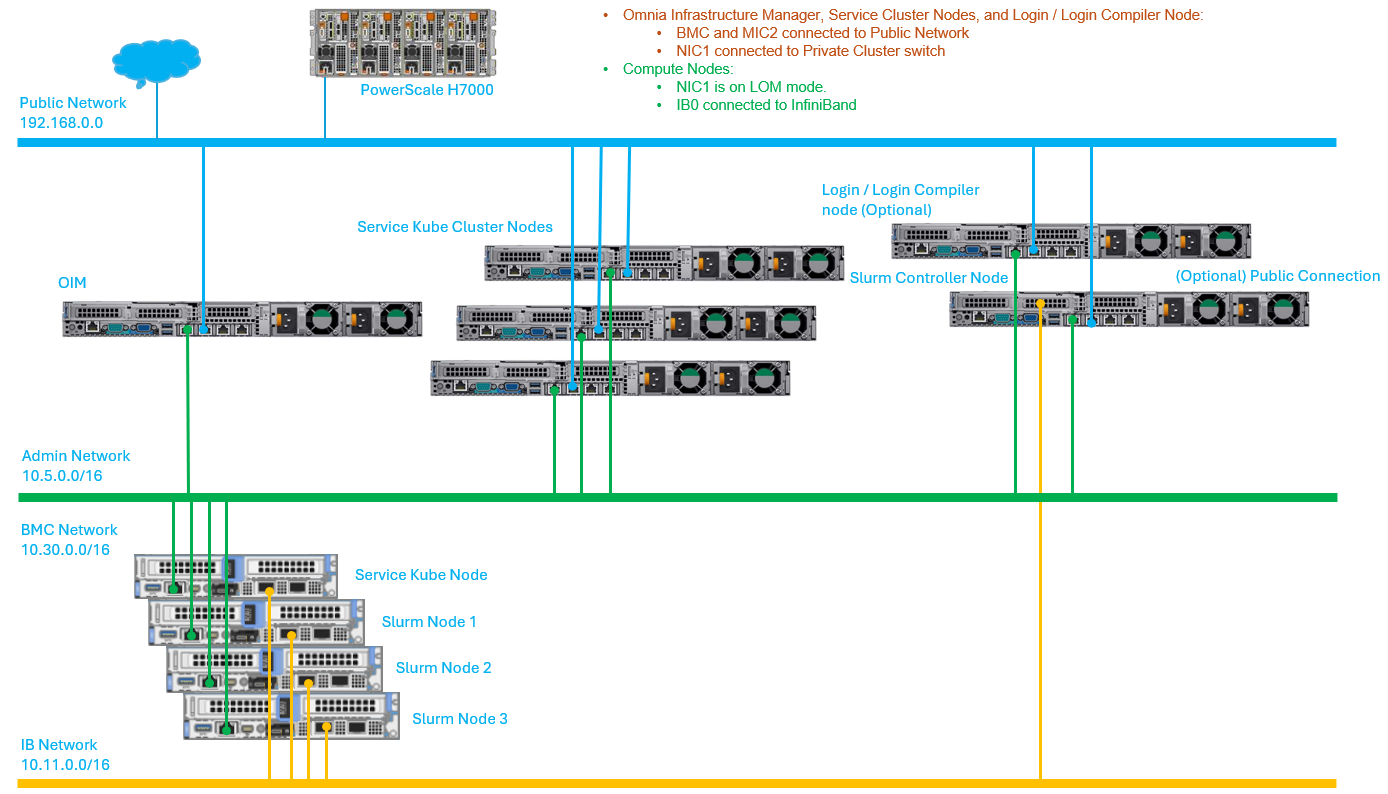
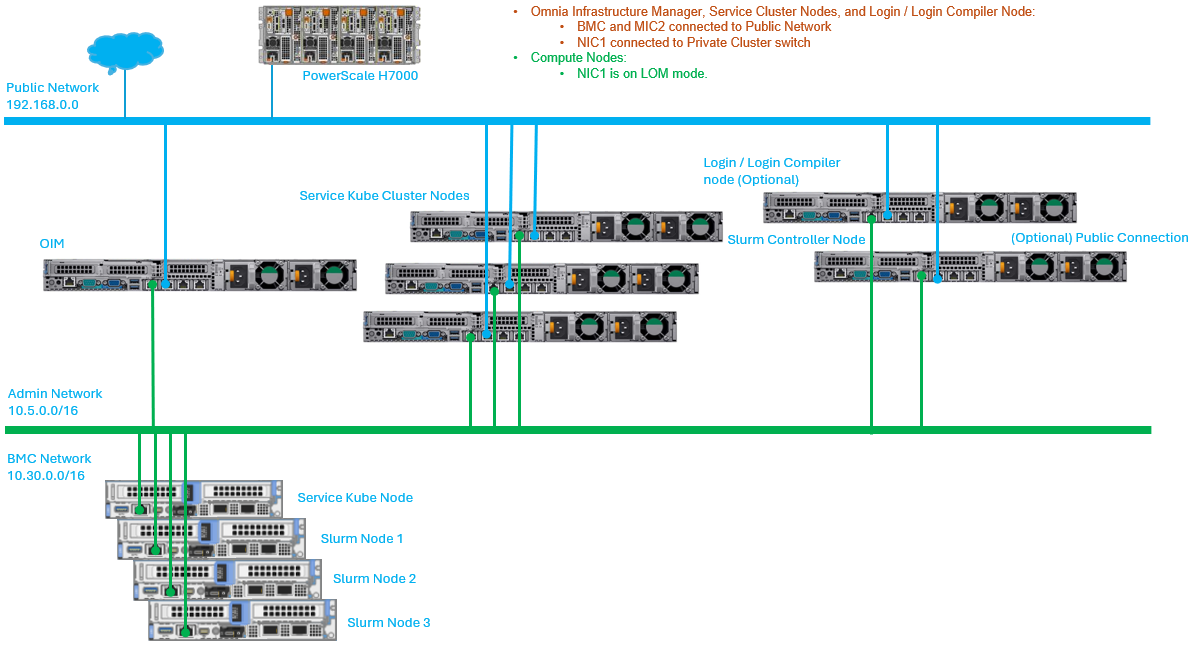
Addressed the doc comments.

Changed region(s): [[0.0, 0.0, 1.0, 0.997], [0.4335, 0.0, 0.8669, 0.1511], [0.0929, 0.0302, 0.1548, 0.0906]]

diff --git a/docs/source/Logging/OIM_logs.rst b/docs/source/Logging/OIM_logs.rst
@@ -56,13 +56,13 @@ Logs of individual Podman containers in OIM
 +--------------+-------------------------------------------+----------------------+-------------+-------------+---------------------------------------------------+-------------------+
 | CONTAINER ID | IMAGE                                     | COMMAND              | CREATED     | STATUS      | PORTS                                             | NAMES             |
 +==============+===========================================+======================+=============+=============+===================================================+===================+
-| 0e327d3addf0 | docker.io/minio/minio:latest              | server /data --co... | 6 days ago  | Up 6 days   | 0.0.0.0:9000-9001->9000-9001/tcp                  | minio-server      |
+| 0e327d3addf0 | docker.io/minio/minio:latest              | server /data --co... | 2 hours ago | Up 2 hours  | 0.0.0.0:9000-9001->9000-9001/tcp                  | minio-server      |
 +--------------+-------------------------------------------+----------------------+-------------+-------------+---------------------------------------------------+-------------------+
-| 1439b4ba453e | docker.io/library/registry:latest         | /etc/distribution... | 6 days ago  | Up 6 days   | 0.0.0.0:5000->5000/tcp                            | registry          |
+| 1439b4ba453e | docker.io/library/registry:latest         | /etc/distribution... | 2 hours ago | Up 2 hours  | 0.0.0.0:5000->5000/tcp                            | registry          |
 +--------------+-------------------------------------------+----------------------+-------------+-------------+---------------------------------------------------+-------------------+
-| 01c7a7eaeb7d | localhost/omnia_core:latest               |                      | 5 days ago  | Up 5 days   | 2222/tcp                                          | omnia_core        |
+| 01c7a7eaeb7d | localhost/omnia_core:1.0                  | /bin/sh -c   mkdi..  | 3 hours ago | Up 3 hours  | 2222/tcp                                          | omnia_core        |
 +--------------+-------------------------------------------+----------------------+-------------+-------------+---------------------------------------------------+-------------------+
-| 3087ca8e0324 | docker.io/bitnami/openldap:latest         | /opt/bitnami/scri... | 2 days ago  | Up 2 days   | 0.0.0.0:1389->1389/tcp, 0.0.0.0:1636->1636/tcp    | openldap          |
+| 3087ca8e0324 | localhost/omnia_auth:1.0                  | /opt/bitnami/scri... | 2 hours ago | Up 2 hours  | 0.0.0.0:389->389/tcp, 0.0.0.0:636->636/tcp        | omnia_auth        |
 +--------------+-------------------------------------------+----------------------+-------------+-------------+---------------------------------------------------+-------------------+
 | bfec21c3e14a | ghcr.io/openchami/local-ca:v0.2.2         | /bin/sh -c exec /... | 2 hours ago | Up 2 hours  | 9000/tcp                                          | step-ca           |
 +--------------+-------------------------------------------+----------------------+-------------+-------------+---------------------------------------------------+-------------------+

diff --git a/docs/source/Overview/NetworkTopologies/lom.rst b/docs/source/Overview/NetworkTopologies/lom.rst
@@ -1,4 +1,4 @@
-Network Topology: Shared LAN on motherboard (LOM) Setup
+Network Topology: Shared LAN on Motherboard (LOM) Setup
 =========================================================
 
 .. note:: The following diagram is for representational purposes only.
@@ -11,10 +11,8 @@ In a **Shared LOM setup**, the Administration and BMC logical networks share the
 
 * **Admin Network and BMC network (Green line)**: This indicates the admin network and the BMC network utilized by Omnia to provision the cluster nodes and to control the cluster nodes using out-of-band management. NIC1 of all the nodes are connected to the private switch.
 
-* **IB / Additional Ethernet Network (Yellow line)**: This indicates the Infiniband (IB) or the additional ethernet network used by applications on the cluster nodes to communicate among each other, using Mellanox or high-speed ethernet switch. OIM connectivity is optional for this switch.
-
 .. note:: Omnia supports classless IP addressing, which allows the Admin network, BMC network, Public network, and the Additional network to be assigned different subnets.
-**Recommended discovery mechanism**
+**Recommended Discovery Mechanism**
 
 * `Discovery Mechanism and Mapping File <../../OmniaInstallGuide/RHEL_new/Provision/discover_mechanism_mappingfile.html>`_.
 

diff --git a/docs/source/Overview/NetworkTopologies/Hybrid.rst b/docs/source/Overview/NetworkTopologies/Hybrid.rst
@@ -11,8 +11,6 @@ In a **Hybrid Setup**, the OIM and special nodes such as the head and login node
 
 * **Admin Network and BMC network (Green line)**: This indicates the admin network and the BMC network utilized by Omnia to provision the cluster nodes and to control the cluster nodes using out-of-band management. NIC1 of all the nodes are connected to the private switch.
 
-* **IB / Additional Ethernet Network (Yellow line)**: This indicates the Infiniband (IB) or the additional ethernet network used by applications on the cluster nodes to communicate among each other, using Mellanox or high-speed ethernet switch. OIM connectivity is optional for this switch.
-
 .. note:: Omnia supports classless IP addressing, which allows the Admin network, BMC network, Public network, and the Additional network to be assigned different subnets. 
 
 **Recommended discovery mechanism**

diff --git a/docs/source/Overview/NetworkTopologies/dedicated.rst b/docs/source/Overview/NetworkTopologies/dedicated.rst
@@ -13,8 +13,6 @@ In a **Dedicated Setup**, all the cluster nodes (Head, Compute, and Login [optio
 
 * **Admin Network (Green line)**: This indicates the admin network used by Omnia to provision the cluster nodes. NIC1 of all the nodes are connected to the private switch.
 
-* **IB / Additional Ethernet Network (Yellow line)**: IB / Additional Ethernet Network (Yellow line): This indicates the InfiniBand (IB) or the additional Ethernet network used by applications on the cluster nodes to communicate among each other, using a Mellanox or high-speed Ethernet switch. OIM connectivity is optional for this switch.
-
 .. note:: Omnia supports classless IP addressing, which allows the Admin network, BMC network, Public network, and the Additional network to be assigned different subnets.
 
 **Recommended discovery mechanism**

diff --git a/docs/source/Overview/SupportMatrix/OperatingSystems/index.rst b/docs/source/Overview/SupportMatrix/OperatingSystems/index.rst
@@ -1,7 +1,7 @@
 Operating Systems (OS) Matrix
 ================================
 
-.. note:: Omnia supports the RHEL operating system with the **Server with GUI** Base Environment on the Omnia Infrastructure Manager (OIM) and the minimal version on the cluster nodes.
+.. note:: Omnia supports the RHEL operating system with the **Server with GUI** Base Environment on the Omnia Infrastructure Manager (OIM) and the minimal version the cluster nodes.
 
 .. toctree::
     RedHat
